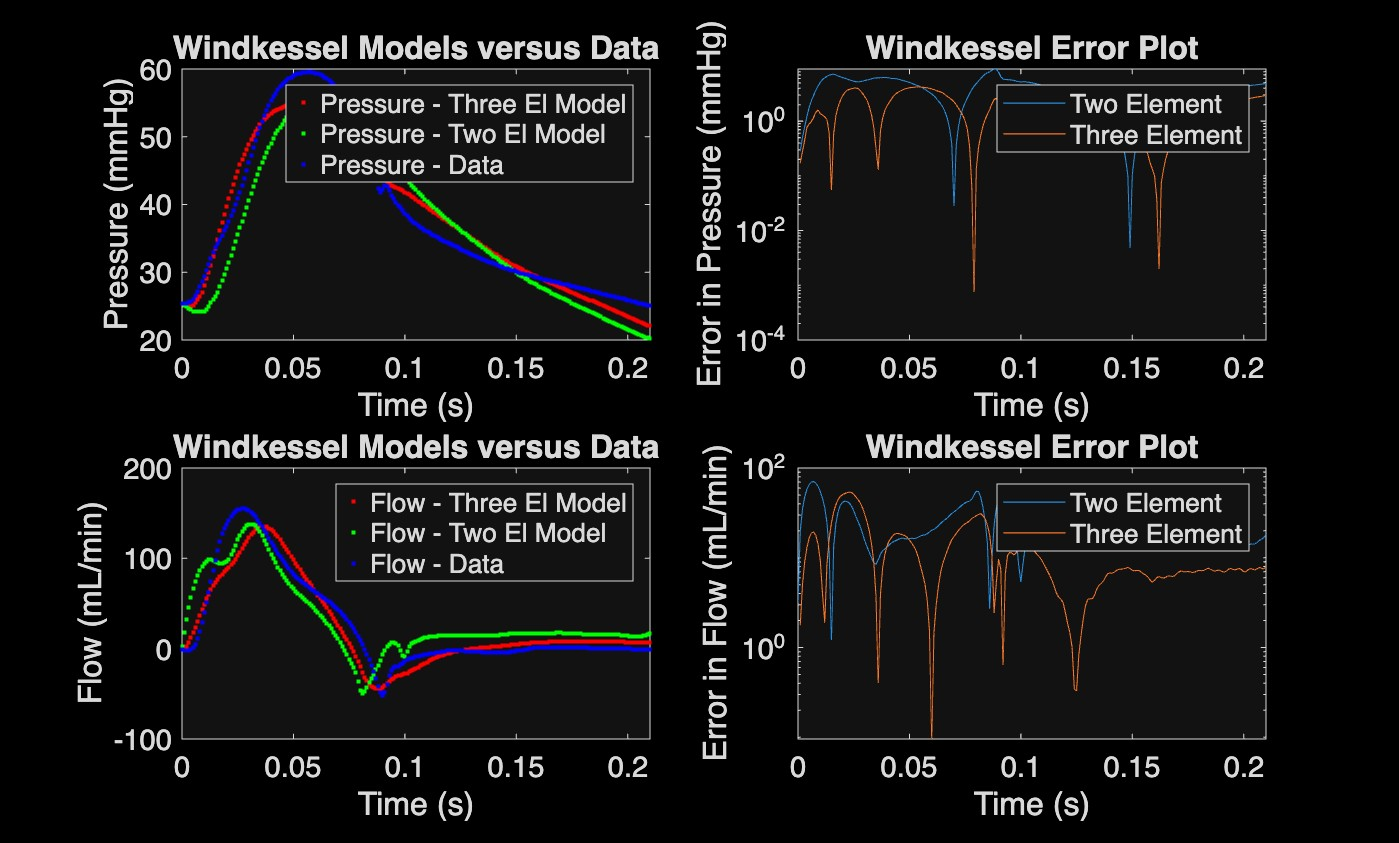
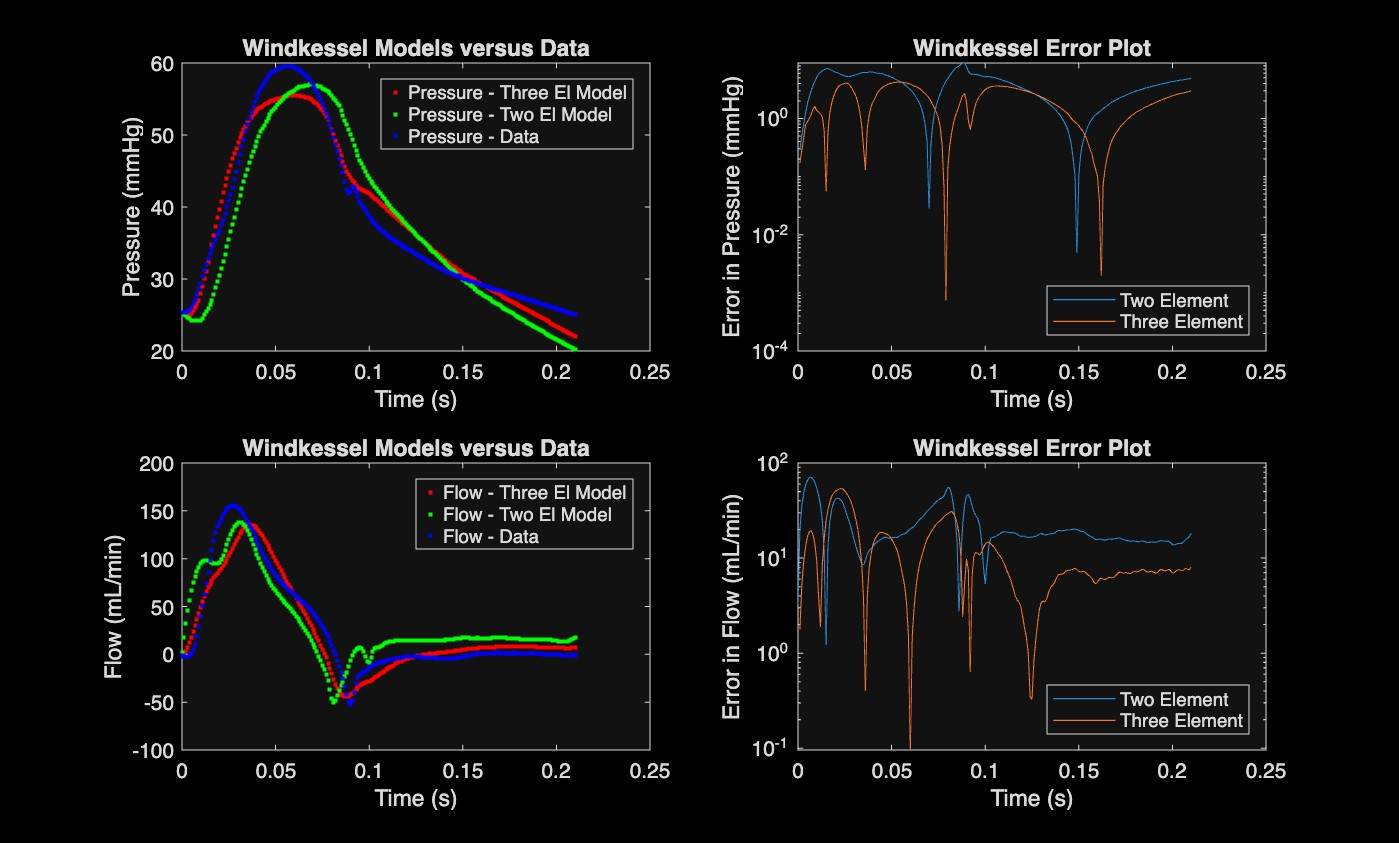
Plot Modifications

Changed region(s): [[0.0307, 0.0308, 0.9221, 0.987]]

diff --git a/Windkessel_Cardiac_Modeling.m b/Windkessel_Cardiac_Modeling.m
@@ -28,7 +28,7 @@ legend('dPdt - Raw', 'dPdt - Smoothed')
 xlabel('Time (s)')
 ylabel('Change in Pressure (mmHg/s)')
 title('Data: Change in Pressure vs Time')
-set(gca, 'FontSize', 14)
+set(gca, 'FontSize', 10)
 
 % Plot Flow
 
@@ -50,7 +50,7 @@ legend('dQdt - Raw', 'dQdt - Smoothed')
 xlabel('Time (s)')
 ylabel('Change in Flow (mL/s^2)')
 title('Data: Change in Flow vs Time')
-set(gca, 'FontSize', 14)
+set(gca, 'FontSize', 10)
 
 print -djpeg RawDataPlots
 
@@ -166,17 +166,17 @@ plot(time, p3, '.r', time, p2, '.g', time, pressure, '.b')
 legend('Pressure - Three El Model','Pressure - Two El Model','Pressure - Data')
 xlabel('Time (s)'), ylabel('Pressure (mmHg)')
 title('Windkessel Models versus Data')
-set(gca, 'FontSize', 14)
+set(gca, 'FontSize', 10)
 
 % Pressure Error Plots 
 
 subplot(2, 2, 2);
 semilogy(time, errorWind2Pressure, time, errorWind3Pressure)
-legend('Two Element', 'Three Element')
+legend('Two Element', 'Three Element', 'Location', 'SouthEast')
 xlabel('Time (s)')
 ylabel('Error in Pressure (mmHg)')
 title('Windkessel Error Plot')
-set(gca, 'FontSize', 14)
+set(gca, 'FontSize', 10)
 
 % Predicting Flow 
 
@@ -220,16 +220,16 @@ plot(time, q3, '.r', time, q2, '.g', time, flow, '.b')
 legend('Flow - Three El Model','Flow - Two El Model', 'Flow - Data')
 xlabel('Time (s)'), ylabel('Flow (mL/min)')
 title('Windkessel Models versus Data')
-set(gca, 'FontSize', 14)
+set(gca, 'FontSize', 10)
 
 % Flow Error Plots 
 
 subplot(2, 2, 4);
 semilogy(time, errorWind2Flow, time, errorWind3Flow)
-legend('Two Element', 'Three Element')
+legend('Two Element', 'Three Element', 'Location', 'SouthEast')
 xlabel('Time (s)')
 ylabel('Error in Flow (mL/min)')
 title('Windkessel Error Plot')
-set(gca, 'FontSize', 14)
+set(gca, 'FontSize', 10)
 
 print -djpeg ModelPlots
